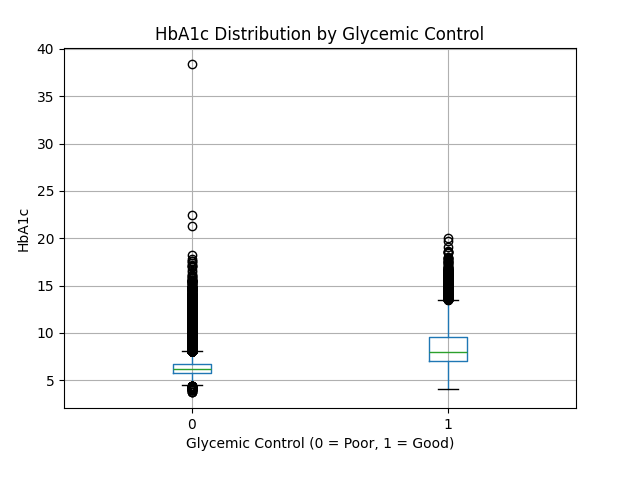
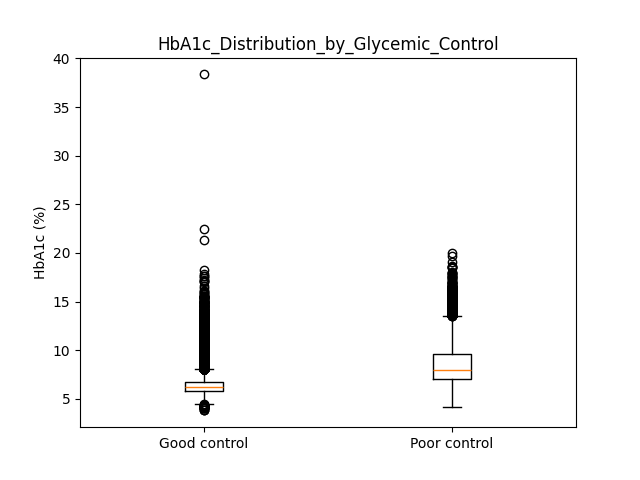
update code & plots

diff --git a/final_1222_v1.py b/final_1222_v1.py
@@ -98,28 +98,28 @@ import matplotlib.pyplot as plt
 
 
 # ---------- Figure 1: Glycemic control proportion ----------
-title = "Proportion of Glycemic Control Status"
+title = "Proportion_of_Glycemic_Control_Status"
 
 plt.figure()
 df["Glycemic_control"].value_counts(normalize=True).sort_index().plot(kind="bar")
 plt.xticks([0, 1], ["Good control", "Poor control"], rotation=0)
 plt.ylabel("Proportion")
 plt.title(title)
-plt.savefig("./plt_output/f'{title}")
+plt.savefig("./plt_output/" + title)
 plt.show()
 
 # ---------- Figure 2: Age distribution (boxplot) ----------
-title = "Age Distribution by Glycemic Control"
+title = "Age_Distribution_by_Glycemic_Control"
 
 plt.figure()
 plt.boxplot([df_good["age"].dropna(), df_poor["age"].dropna()], labels=["Good", "Poor"])
 plt.ylabel("Age")
 plt.title(title)
-plt.savefig("./plt_output/f'{title}")
+plt.savefig("./plt_output/" + title)
 plt.show()
 
 # ---------- Figure 3: Sex proportion ----------
-title = "Sex Distribution by Glycemic Control"
+title = "Sex_Distribution_by_Glycemic_Control"
 
 sex_prop = pd.DataFrame({
     "Good": df_good["sex"].value_counts(normalize=True),
@@ -135,12 +135,12 @@ plt.bar(x + width/2, sex_prop["Poor"], width, label="Poor")
 plt.xticks(x, sex_prop.index)
 plt.ylabel("Proportion")
 plt.title(title)
-plt.savefig("./plt_output/f'{title}")
+plt.savefig("./plt_output/" + title)
 plt.legend()
 plt.show()
 
 # ---------- Figure 4: Lipid profile target achievement ----------
-title = "Lipid Profile Control by Glycemic Status"
+title = "Lipid_Profile_Control_by_Glycemic_Status"
 
 lipid_good = {
     "HDL>35": (df_good["HDL"] > 35).mean(),
@@ -163,12 +163,12 @@ plt.bar(x + width/2, lipid_poor.values(), width, label="Poor")
 plt.xticks(x, labels)
 plt.ylabel("Proportion Achieving Target")
 plt.title(title)
-plt.savefig("./plt_output/f'{title}")
+plt.savefig("./plt_output/" + title)
 plt.legend()
 plt.show()
 
 # ---------- Figure 5: Creatinine distribution ----------
-title = "Creatinine Distribution by Glycemic Control"
+title = "Creatinine_Distribution_by_Glycemic_Control"
 
 plt.figure()
 plt.boxplot(
@@ -177,11 +177,11 @@ plt.boxplot(
 )
 plt.ylabel("Creatinine")
 plt.title(title)
-plt.savefig("./plt_output/f'{title}")
+plt.savefig("./plt_output/" + title)
 plt.show()
 
 # ---------- Figure 6: Comorbidities prevalence ----------
-title = "Comorbidities by Glycemic Control"
+title = "Comorbidities_by_Glycemic_Control"
 
 comorbidities = ["nephropaties", "hypertension_i10", "ischemic_heart_dis"]
 
@@ -196,12 +196,12 @@ plt.bar(x + width/2, poor_com, width, label="Poor")
 plt.xticks(x, ["CKD", "HTN", "IHD"])
 plt.ylabel("Proportion")
 plt.title(title)
-plt.savefig("./plt_output/f'{title}")
+plt.savefig("./plt_output/{title}")
 plt.legend()
 plt.show()
 
 # ---------- Figure 7: Diabetes medication usage ----------
-title = "Diabetes Medication Usage by Glycemic Control"
+title = "Diabetes_Medication_Usage_by_Glycemic_Control"
 
 meds = ["metformin_hcl", "insulin_glarjin", "dapagliflozin", "sitagliptin"]
 
@@ -216,12 +216,12 @@ plt.bar(x + width/2, poor_med, width, label="Poor")
 plt.xticks(x, ["Metformin", "Basal insulin", "SGLT2i", "DPP4i"], rotation=20)
 plt.ylabel("Proportion of Use")
 plt.title(title)
-plt.savefig("./plt_output/f'{title}")
+plt.savefig("./plt_output/" + title)
 plt.legend()
 plt.show()
 
 # ---------- Figure 8A: HbA1c boxplot ----------
-title = "HbA1c Distribution by Glycemic Control"
+title = "HbA1c_Distribution_by_Glycemic_Control"
 
 plt.figure()
 plt.boxplot(
@@ -230,11 +230,11 @@ plt.boxplot(
 )
 plt.ylabel("HbA1c (%)")
 plt.title(title)
-plt.savefig("./plt_output/f'{title}")
+plt.savefig("./plt_output/" + title)
 plt.show()
 
 # ---------- Figure 8B: HbA1c change boxplot ----------
-title = "HbA1c Change by Glycemic Control"
+title = "HbA1c_Change_by_Glycemic_Control"
 
 plt.figure()
 plt.boxplot(
@@ -243,7 +243,7 @@ plt.boxplot(
 )
 plt.ylabel("HbA1c Change")
 plt.title(title)
-plt.savefig("./plt_output/f'{title}")
+plt.savefig("./plt_output/" + title)
 plt.show()
 
 
